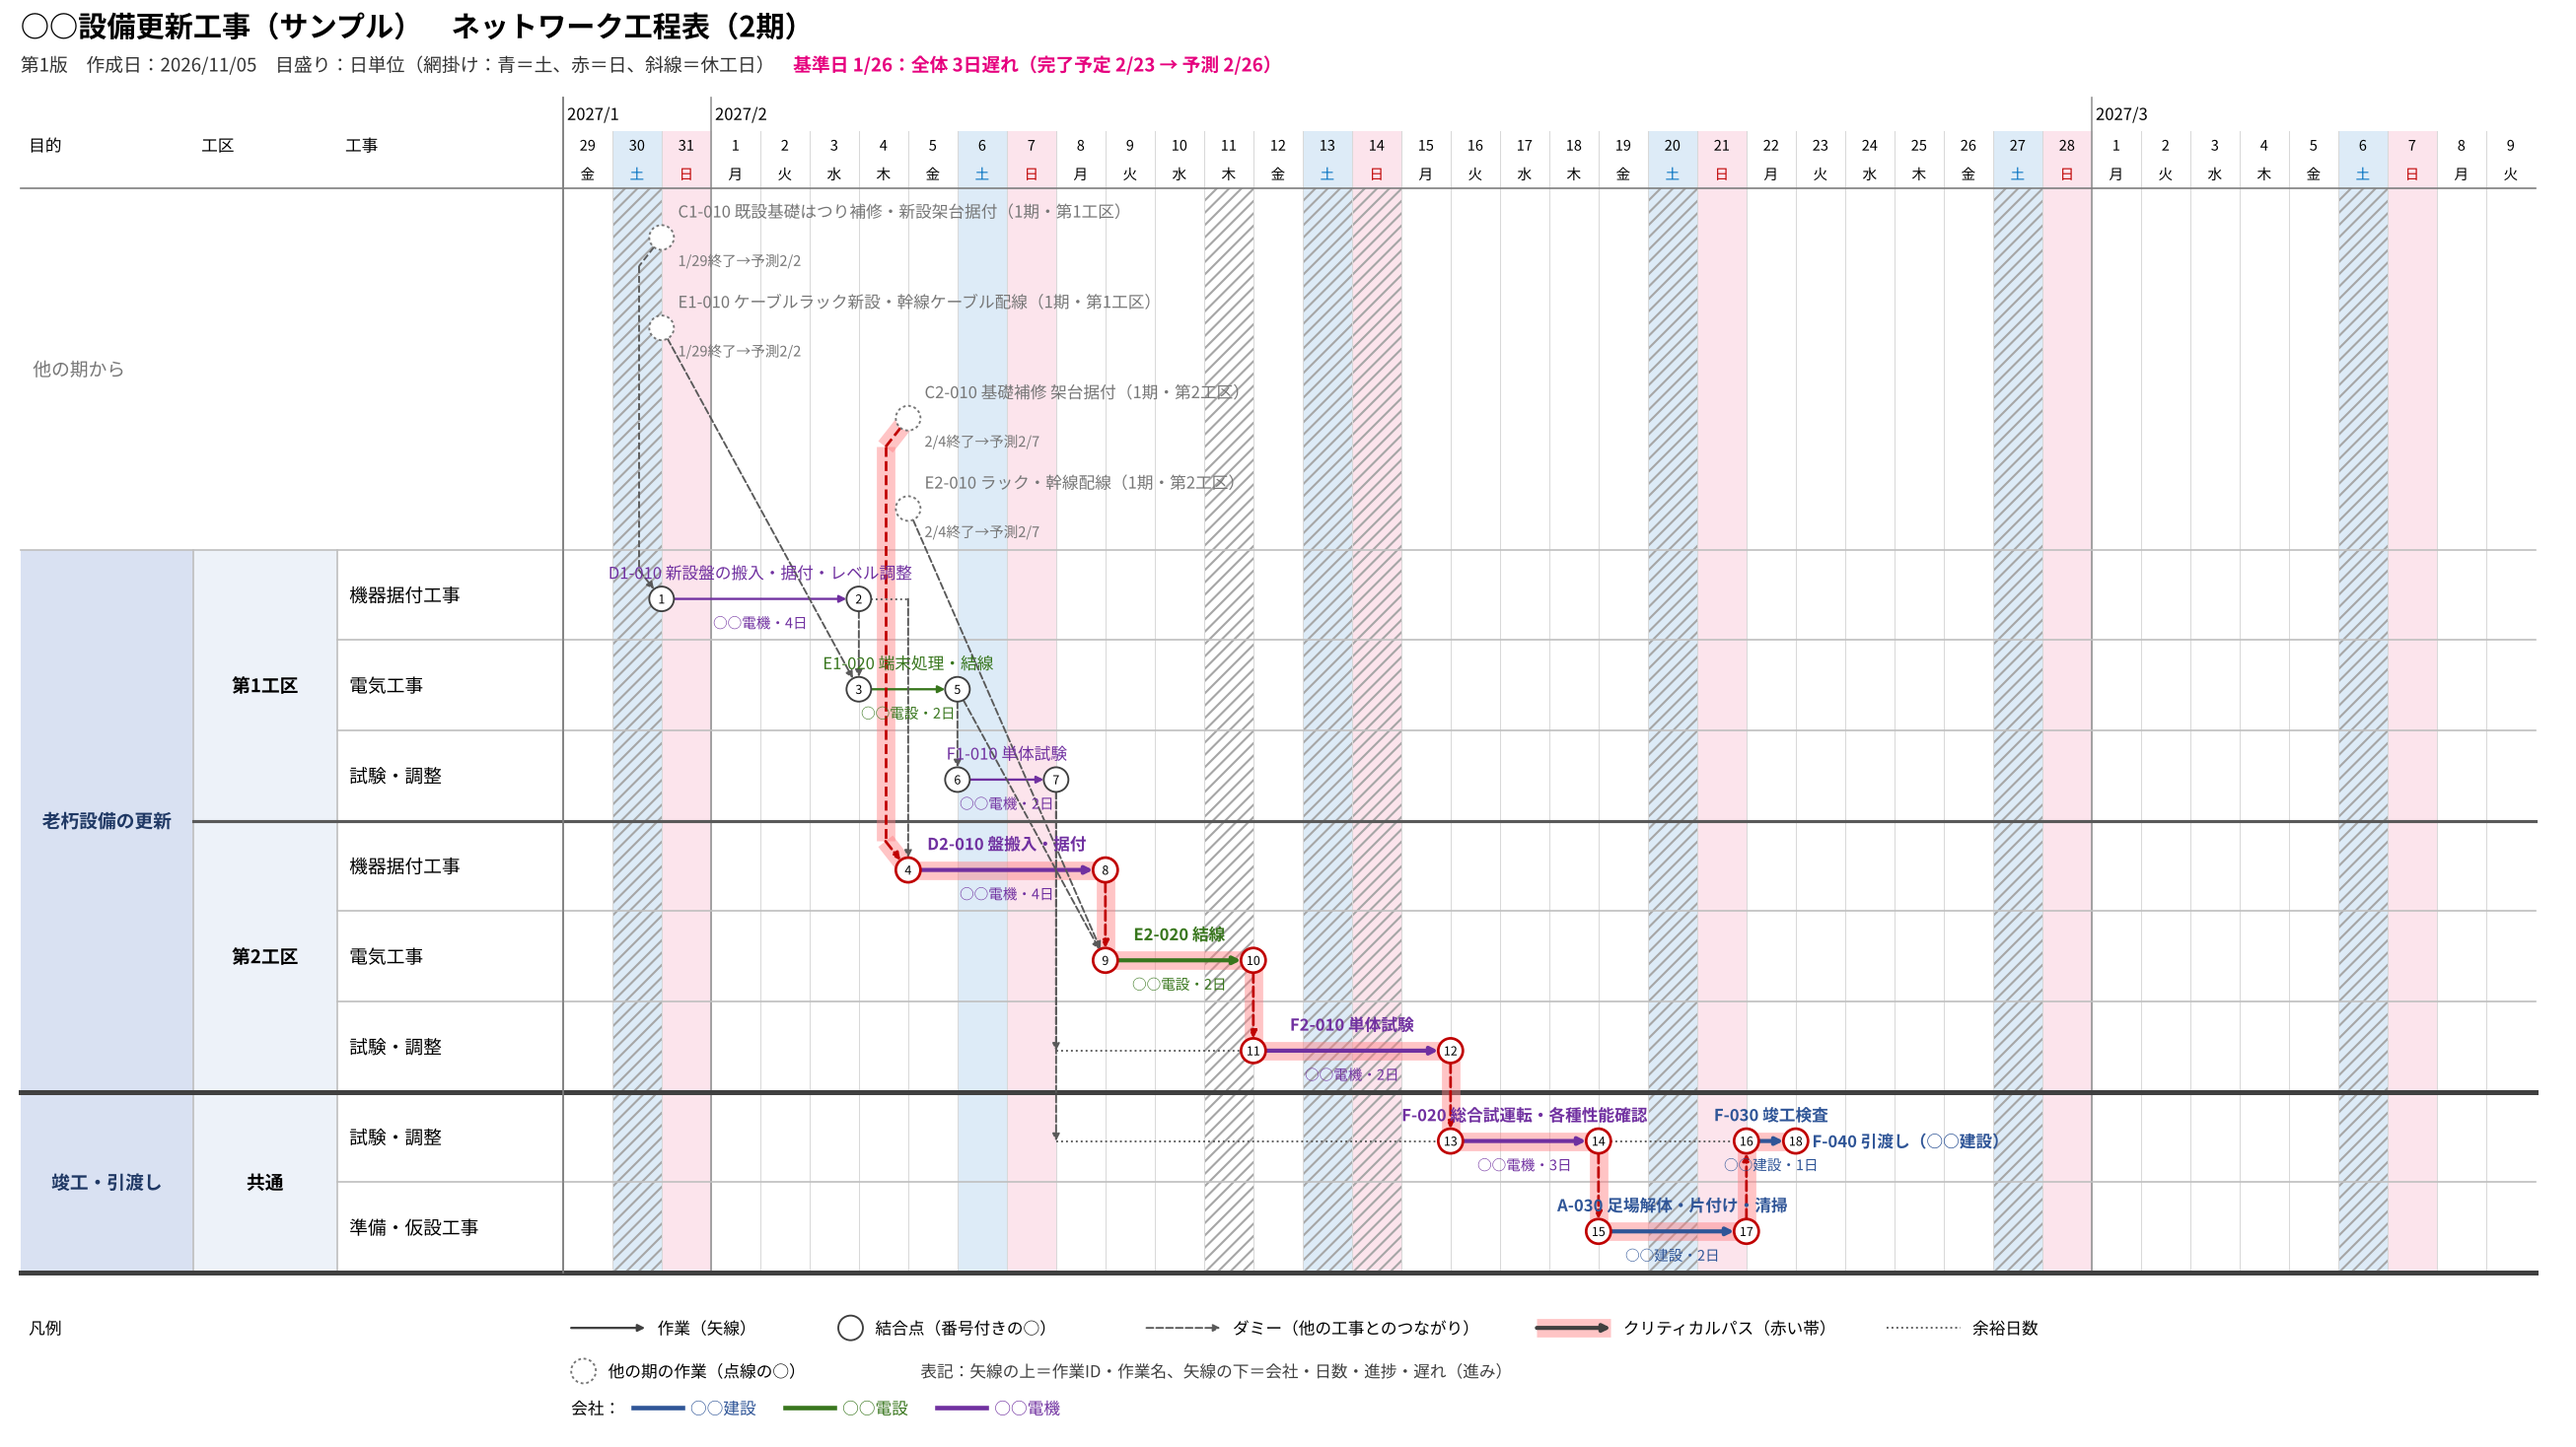
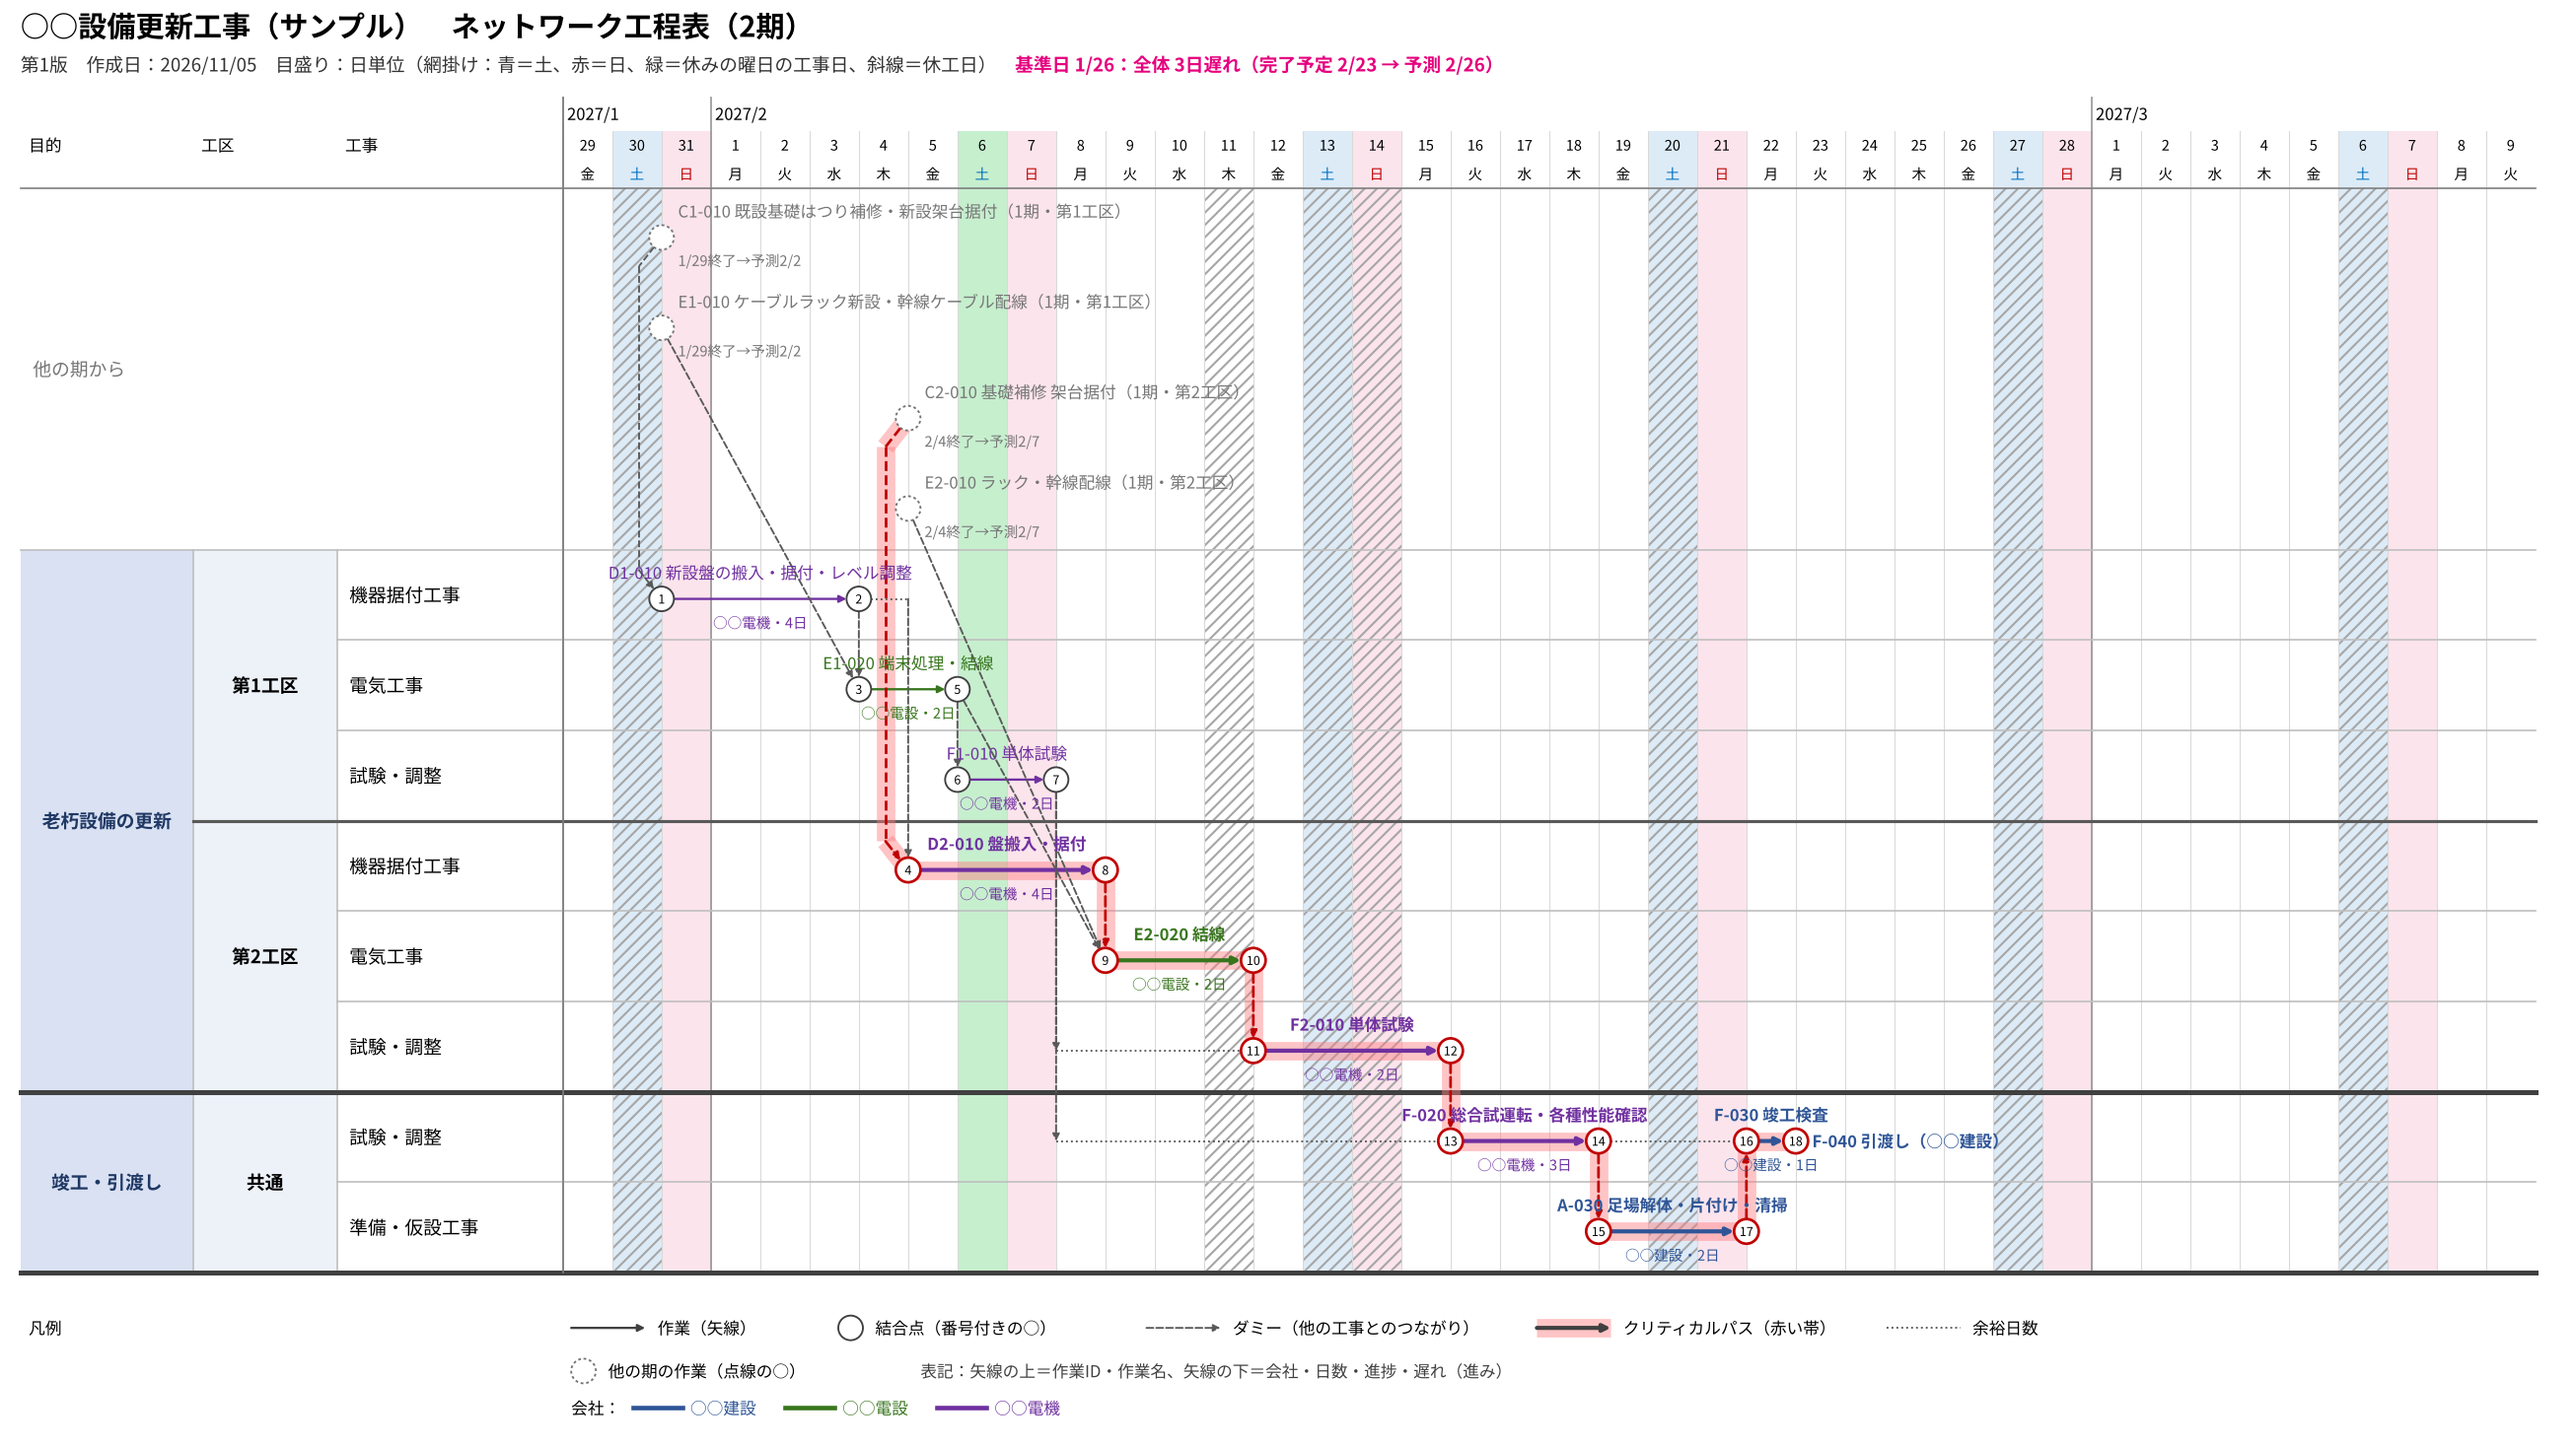
休みの曜日だけど工事する日を薄い緑で網掛け
- 工事カレンダーの例外の日で ○ にした、休みの曜日の日（例：サンプルの 2/6 の土曜）を薄い緑 RGB(198, 239, 206) で
  網掛けする（IsExtraWorkDay）。日単位も週単位も
- 2行目の説明に「緑＝休みの曜日の工事日」（その日がシートにあるときだけ）
- プレビューも同じように直し、README の画像を差し替えた
- 使い方・工事カレンダーの説明・README・CLAUDE.md を更新

Excel ではまだ試していない。

Claude-Session: https://claude.ai/code/session_01B3QzGFNpJZqtoxUP34Lndd

Changed region(s): [[0.3721, 0.092, 0.4031, 0.889], [0.2481, 0.0307, 0.5892, 0.0613]]

diff --git a/tools/make_sample_book.py b/tools/make_sample_book.py
@@ -177,7 +177,8 @@ blocks = [
         "・日の境目に薄い縦線を引く。○は日の境目の線の上に乗る（線の右の日に始まり、左の日に終わる点）",
         "・週単位の目盛りでも日付の列は1日1列（細い列）。週の境目（月曜）を実線、日の境目を点線で引き、日付の行に月曜の"
         "日付を書く。○が何日にあるかは、月曜の線から点線を数えて読む",
-        "・網掛けは、土曜が薄い青、日曜が薄い赤（日単位も週単位も）。休工日（工事カレンダーで決めた工事しない日）には斜線",
+        "・網掛けは、土曜が薄い青、日曜が薄い赤（日単位も週単位も）。休工日（工事カレンダーで決めた工事しない日）には斜線。"
+        "休みの曜日だけど工事する日（工事カレンダーの例外の日で ○ にした日）は薄い緑",
     ]),
     ("作図の決まりごと", [
         "・縦軸は左から「目的」→「工区」→「工事」の3段。並びはどれも工程データに最初に出てきた順。目的・工区が空欄の作業は"
@@ -369,7 +370,7 @@ ws["A1"] = "工事カレンダー（工事しない日・工事する日）"
 ws["A1"].font = F(14, True, NAVY)
 ws.row_dimensions[1].height = 28
 ws["A2"] = ("工事しない日（休工日）を決めます。右の「曜日」の表で、曜日ごとに ○（工事する）か ×（工事しない）を選びます。"
-            "左の表には、連休・臨時の休み（×）や、休みの曜日だけど工事する日（○）を書きます。終了日が空欄なら1日だけ、"
+            "左の表には、連休・臨時の休み（×）や、休みの曜日だけど工事する日（○。工程表では薄い緑）を書きます。終了日が空欄なら1日だけ、"
             "「工事」が空欄なら休みです。同じ日を2回書いたときは下の行が優先です。"
             "休工日は工程表で斜線になり、開始・終了が空欄の作業を自動で置くときと、日数（工事する日の数）・余裕日数を"
             "数えるときに飛ばします。休工日に始まる・終わる作業は、工程データのチェック列に出ます。")

diff --git a/tools/preview/network_logic5.py b/tools/preview/network_logic5.py
@@ -28,6 +28,7 @@ NAME_FONT, SUB_FONT, GAP, LINE_PITCH = 8.0, 7.0, 2.0, 1.75
 INAZUMA = "#E6007E"  # イナズマ線（クリティカルパスの赤と見分ける）
 PURP_FILL, PURP_TXT, PURP_LINE = "#D9E1F2", "#1F3864", "#404040"  # 目的の欄の塗り・文字、目的の境目の線
 SAT_FILL, SUN_FILL, HOL_HATCH, SAT_TXT = "#DDEBF7", "#FCE4EC", "#A6A6A6", "#0070C0"  # 土・日の網掛け、休工日の斜線、土の文字
+EXTRA_FILL = "#C6EFCE"  # 休みの曜日だけど工事する日
 DAY_W, LANE_H, ARROW_OFF, NODE_D = 24.0, 44.0, 24.0, 12.0
 WEEK_DAY_W = 6.75  # 週単位の目盛りの1日の幅（VBA は列幅 0.7＝9px）
 R = NODE_D / 2
@@ -464,9 +465,11 @@ def render(acts, c, ph, gr, zn, sh, lay, colors, co_order, path, title, caption,
         return lane_top[L] + lay["arrow_off"][L]
 
     has_hol = any(is_hol(vs + k) for k in range(ncols))
+    has_extra = any(v3.is_extra_work(vs + k) for k in range(ncols))
     ax.text(X0, row_title + 13, f"{title}　ネットワーク工程表{caption}", fontsize=14, weight="bold", va="center")
     sub_txt = ("第1版　作成日：2026/11/05　目盛り：" + ("週単位（月曜始まり。点線は日の区切り。" if week else "日単位（") +
-               "網掛け：青＝土、赤＝日" + ("、斜線＝休工日" if has_hol else "") + "）")
+               "網掛け：青＝土、赤＝日" + ("、緑＝休みの曜日の工事日" if has_extra else "") +
+               ("、斜線＝休工日" if has_hol else "") + "）")
     ax.text(X0, row_sub + 8, sub_txt, fontsize=9, va="center", color="#333333")
     if prog:
         ax.text(X0 + pt_w(sub_txt, 9) + 9, row_sub + 8, prog["summary"], fontsize=9, va="center", color=INAZUMA,
@@ -477,7 +480,7 @@ def render(acts, c, ph, gr, zn, sh, lay, colors, co_order, path, title, caption,
         d = dt.date.fromordinal(vs + k)
         x = X(vs + k)
         wd = (d.weekday() + 1) % 7
-        fill = SAT_FILL if wd == 6 else (SUN_FILL if wd == 0 else None)
+        fill = EXTRA_FILL if v3.is_extra_work(vs + k) else (SAT_FILL if wd == 6 else (SUN_FILL if wd == 0 else None))
         if fill:
             ax.add_patch(Rectangle((x, row_day), day_w, chart_bottom - row_day, facecolor=fill, edgecolor="none",
                                    zorder=0))

diff --git a/tools/preview/network_logic3.py b/tools/preview/network_logic3.py
@@ -52,6 +52,11 @@ def is_hol(d):
     return (d - 1) % 7 in WD_OFF  # ordinal の 1（0001-01-01）は月曜
 
 
+def is_extra_work(d):
+    """VBA の IsExtraWorkDay と同じ：休みの曜日だけど、例外の日で工事する日（○）にした日"""
+    return (d - 1) % 7 in WD_OFF and d in WORK
+
+
 def is_work_mark(t, dflt):
     """VBA の IsWorkMark と同じ：○×の欄の読み方"""
     t = (t or "").strip()

diff --git a/README.md b/README.md
@@ -36,7 +36,7 @@
 
 | 版 | 主な変更 |
 |---|---|
-| v11 | 工事カレンダー（曜日ごとの ○×、連休などの例外の日）で休工日を決める。土＝青・日＝赤の網掛けと休工日の斜線。日数・余裕は工事する日で数え、休工日をはさむ矢線は次の工事日まで伸ばす。週単位の目盛りに日の区切りの点線。期ごとの目盛りの「日」は長くても日単位。サンプルの工程データを Excel のテーブルに。印刷は余白0・すべての行を1ページ、タイトル列（目的・工区・工事）とタイトル行（表題・目盛り）、ページ番号は右上 |
+| v11 | 工事カレンダー（曜日ごとの ○×、連休などの例外の日）で休工日を決める。土＝青・日＝赤・休みの曜日の工事日＝緑の網掛けと休工日の斜線。日数・余裕は工事する日で数え、休工日をはさむ矢線は次の工事日まで伸ばす。週単位の目盛りに日の区切りの点線。期ごとの目盛りの「日」は長くても日単位。サンプルの工程データを Excel のテーブルに。印刷は余白0・すべての行を1ページ、タイトル列（目的・工区・工事）とタイトル行（表題・目盛り）、ページ番号は右上 |
 | v10 | 縦軸に「目的」の列（工区の左）。目的 → 工区 → 工事の3段で、同じ工区でも目的が違えば分けて並べる。まとめも目的ごと |
 | v9 | 大きな工程表で止まりにくく：作図中に進み具合を表示（Esc で中止）、目盛りの「自動」（長い期間は週単位）、目盛りをまとめて描く、シートごとにかかった時間と図形の数を表示 |
 | v8 | 実績の記入と遅れ：イナズマ線、矢線の下に「n日遅れ／進み」、全体の完了予測、工程データに予定進捗・予測終了など |

diff --git a/CLAUDE.md b/CLAUDE.md
@@ -110,7 +110,8 @@ DrawSheet
   - 矢線の終点 `actFd`＝終了日の翌日から休工日を飛ばした日（まとめの終点・つながり・○・他の期の作業もこれ）。
     休工日をはさんで続く作業と○を共有し、余裕に見えないようにする。工程データに書く日付（計算終了）は今までどおり
   - ○を動かしたとき：始まりは次の工事する日へ、終わりは前の工事する日へ寄せ、日数は工事する日の数を書く
-  - 網掛け：土＝薄い青、日＝薄い赤（日単位も週単位も）、休工日＝斜線（段の行だけ）。曜日の文字は土＝青、日＝赤
+  - 網掛け：土＝薄い青、日＝薄い赤（日単位も週単位も）、休工日＝斜線（段の行だけ）。曜日の文字は土＝青、日＝赤。
+    休みの曜日だけど例外の日で ○ にした日（`IsExtraWorkDay`）＝薄い緑 RGB(198, 239, 206)
 
 ## Python のプレビュー（tools/preview）
 
